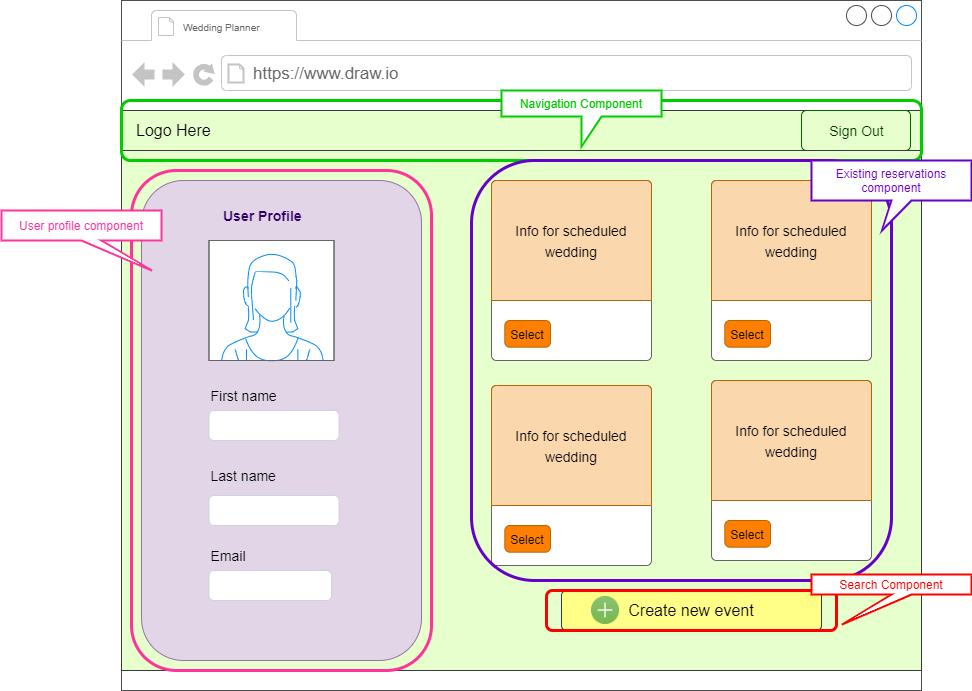
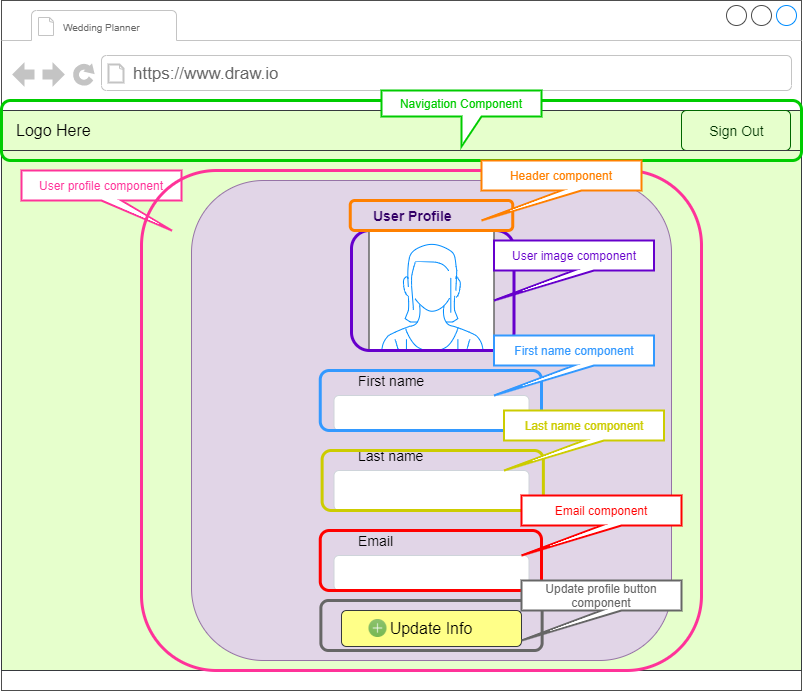
updated profile wireframe in readme

diff --git a/README.md b/README.md
@@ -77,7 +77,7 @@ Design features basic functionality and style for multiple features.
   <p>Signup webpage wireframe</p>
   <img src="readme\imgs\wireframe-signup.png" width = "600px">
 
-  <p>User profile wireframe to show existing events</p>
+  <p>User profile wireframe</p>
   <img src="readme\imgs\wireframe-profile.png" width = "600px">
 
   <p>Create event reservation wireframe</p>
